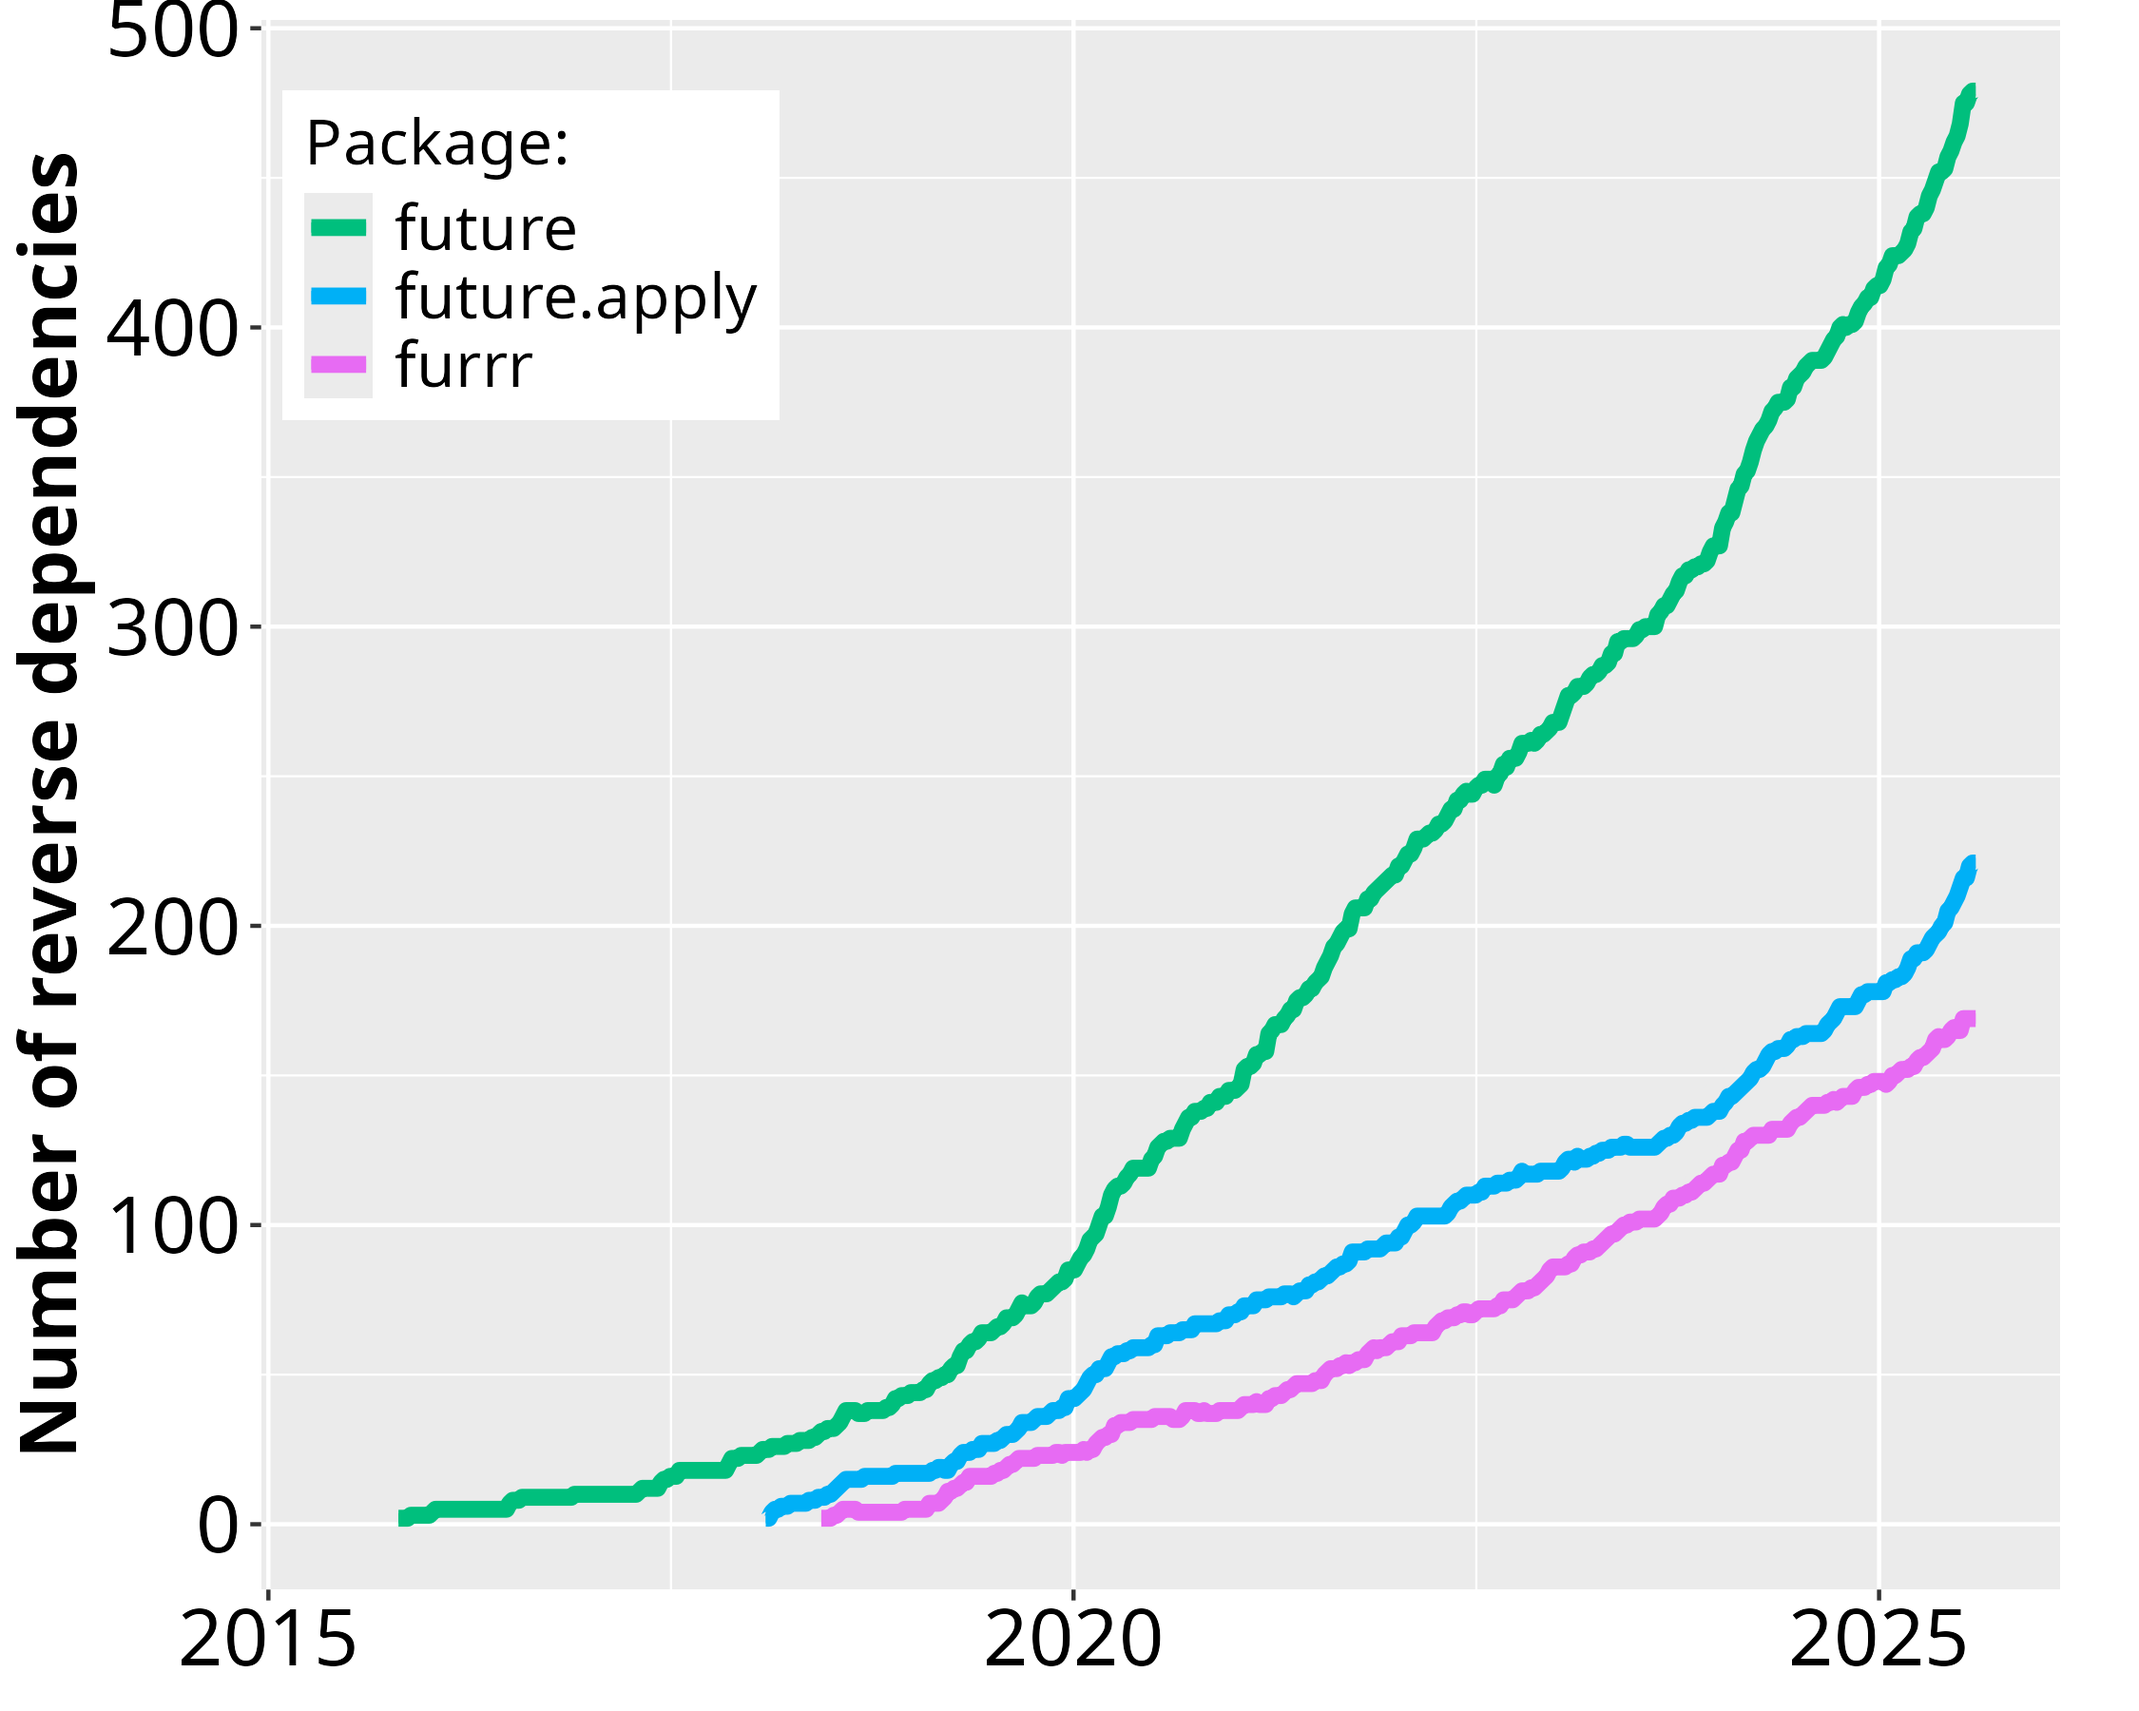
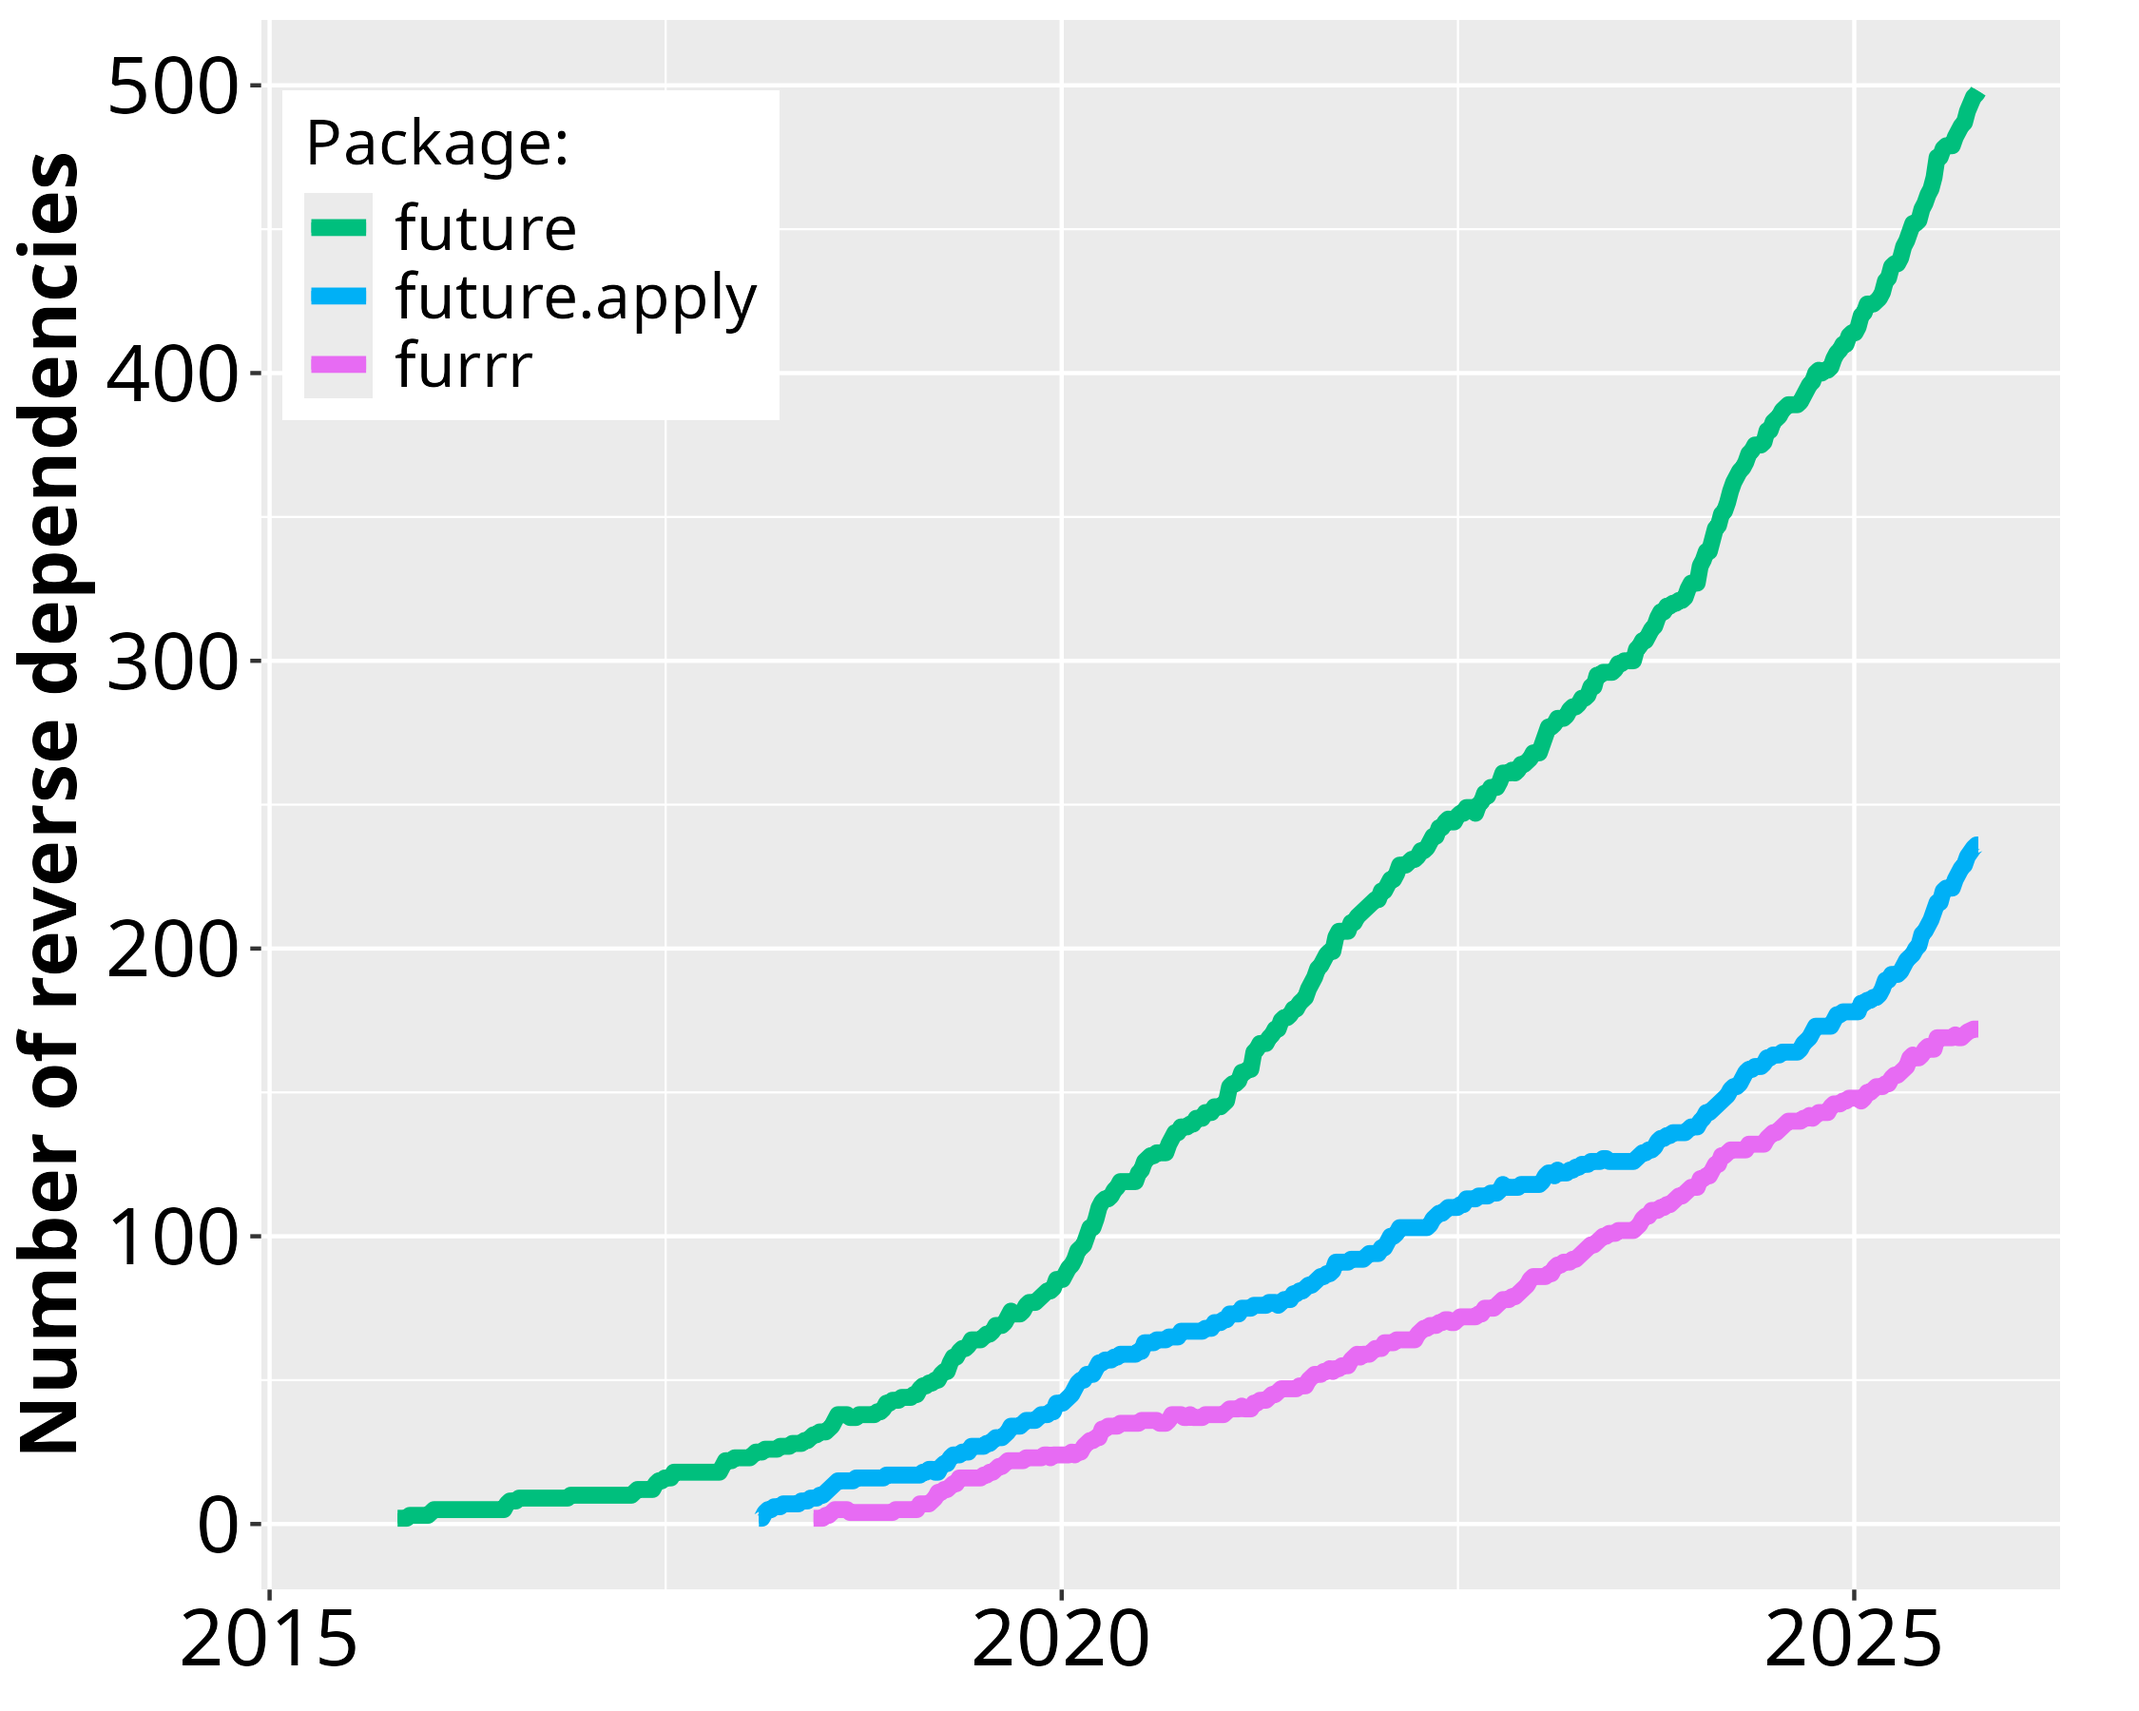
Update usage stats + graphs - take 2

diff --git a/docs/usage.html b/docs/usage.html
@@ -529,7 +529,7 @@ gtag('config', 'G-SB3EQSD9FR', { 'anonymize_ip': true});
 </section>
 <section id="cran-statistics" class="level1">
 <h1>CRAN Statistics</h1>
-<p>Since the first CRAN release of <strong>future</strong> in June 2015, its uptake among end-users and package developers have grown steadily. During July 2025, <strong>future</strong> was among the top-0.7% most downloaded package on CRAN (Figure 1) and there are 480 packages on CRAN and Bioconductor that directly depend on it (Figure 2). For map-reduce parallelization packages <strong>future.apply</strong> (top-0.8% most downloaded) and and <strong>furrr</strong> (top 1.4%), the corresponding number of packages are 220 and 170, respectively. If we consider recursive dependencies too, that is, packages that use the <strong>future</strong> package either directly or indirectly via another package, then 85% of all ~22,500 CRAN packages may rely on the future framework for their processing.</p>
+<p>Since the first CRAN release of <strong>future</strong> in June 2015, its uptake among end-users and package developers have grown steadily. During October 2025, <strong>future</strong> was among the top-0.7% most downloaded package on CRAN (Figure 1) and there are 500 packages on CRAN and Bioconductor that directly depend on it (Figure 2). For map-reduce parallelization packages <strong>future.apply</strong> (top-0.8% most downloaded) and and <strong>furrr</strong> (top 1.4%), the corresponding number of packages are 240 and 170, respectively. If we consider recursive dependencies too, that is, packages that use the <strong>future</strong> package either directly or indirectly via another package, then 85% of all ~23,000 CRAN packages may rely on the future framework for their processing.</p>
 <!--
 pkgs <- revdepcheck:::cran_revdeps("future")
 pkgs <- tools::package_dependencies("future", which="all", reverse=TRUE, recursive=TRUE)        
@@ -541,7 +541,7 @@ pkgs <- tools::package_dependencies("future", which="all", reverse=TRUE, recursi
 </div>
 <p><em>Figure 1: The download percentile ranks for <strong>future</strong>, <strong>future.apply</strong>, <strong>furrr</strong>, and <strong>foreach</strong> averaged every four weeks. <strong>future</strong> is among the top-0.7% most downloaded packages on CRAN. The data are based on the Posit CRAN mirror logs. There are approximately 200 million package downloads per month from the Posit CRAN mirror alone. Since none of the other CRAN mirrors provide statistics, it is impossible to know the total amount of package installations.</em></p>
 <!-- [https://cranlogs.r-pkg.org/downloads/total/last-month] -->
-<p>As a reference<a href="#fn1" class="footnote-ref" id="fnref1" role="doc-noteref"><sup>1</sup></a>, the popular <strong>foreach</strong>, released in 2009, was among the top-0.8% most downloaded packages during the same period and it has 1,280 reverse package dependencies on CRAN. The number of users that download <strong>future</strong> has grown rapidly whereas the the same number has slowly decreased for the <strong>foreach</strong> package (Figure 1). Similarly, the number of reverse package dependencies on <strong>future</strong> appear to grow faster than for <strong>foreach</strong> (Figure 2).</p>
+<p>As a reference<a href="#fn1" class="footnote-ref" id="fnref1" role="doc-noteref"><sup>1</sup></a>, the popular <strong>foreach</strong>, released in 2009, was among the top-0.8% most downloaded packages during the same period and it has 1,300 reverse package dependencies on CRAN. The number of users that download <strong>future</strong> has grown rapidly whereas the the same number has slowly decreased for the <strong>foreach</strong> package (Figure 1). Similarly, the number of reverse package dependencies on <strong>future</strong> appear to grow faster than for <strong>foreach</strong> (Figure 2).</p>
 <div class="quarto-layout-panel" data-layout-ncol="2">
 <div class="quarto-layout-row">
 <div class="quarto-layout-cell" style="flex-basis: 50.0%;justify-content: flex-start;">
